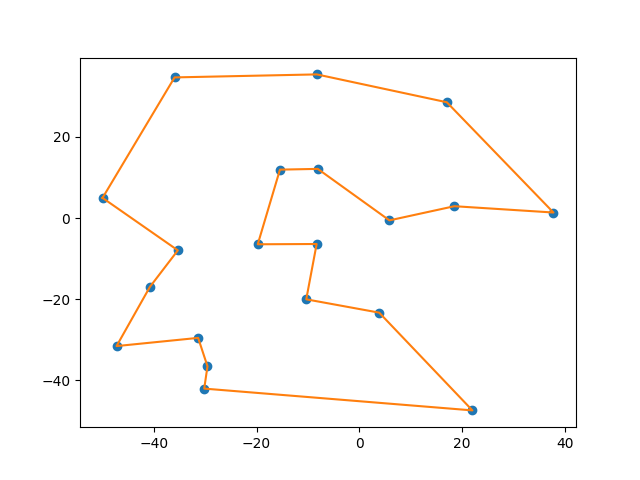
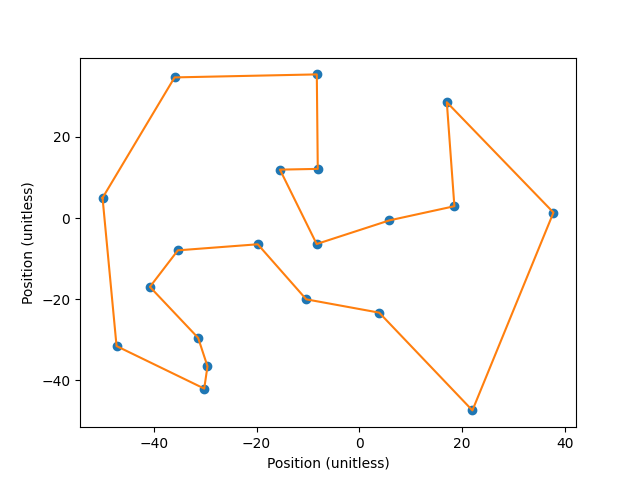
added multi main 1 and 2

diff --git a/multi_main1.py b/multi_main1.py
@@ -9,10 +9,7 @@ import numpy as np
 
 from matplotlib import pyplot as plt
 
-TIME_LIMIT  = 1
-waypoints = []
-num_vehicles = 2
-samples = 20
+
 
 def print_solution(data, manager, routing, solution):
     """Prints solution on console."""
@@ -64,12 +61,12 @@ def plot_results(routes, waypoints, home, num_vehicles):
         x.append(home.x)
         y.append(home.y)
         plt.plot(x, y)
-
     plt.plot(0, 0, 'bx', markersize=10)
+    plt.xlabel('Position (unitless)')
+    plt.ylabel('Position (unitless)')
+    plt.savefig("multi-agent1.png")
 
-
-
-    plt.show()
+    # plt.show()
 
 
 
@@ -79,6 +76,10 @@ def main():
     # Instantiate the data problem.
     # data = create_data_model()
 
+    TIME_LIMIT  = 1
+    waypoints = []
+    num_vehicles = 2
+    samples = 20
     np.random.seed(1)
     x = np.random.rand(samples, 1) * 100 - 50
     np.random.seed(2)
@@ -89,22 +90,22 @@ def main():
 
     for xx, yy in zip(x, y):
         waypoints.append(Waypoint(xx, yy, 50.0))
-    # home = Waypoint(0, 0, 50.0)
+    home = Waypoint(0, 0, 50.0)
 
-    # waypoints.append(home)
+    waypoints.append(home)
 
     waypoints.sort()
 
-    # home_index = waypoints.index(home)
-    # ends = [home_index for i in range(num_vehicles)]
+    home_index = waypoints.index(home)
+    ends = [home_index for i in range(num_vehicles)]
 
     starts = []
     # while len(starts) < num_vehicles:
     #     candidate = np.random.choice()
 
-    # print('ends', ends)
+    print('ends', ends)
 
-    data = {'depot': 0, 'num_vehicles': num_vehicles}
+    data = {'starts': [0, 8], 'ends': ends, 'num_vehicles': num_vehicles}
     num_points = len(waypoints)
     distance_matrix = [[0 for i in range(num_points)] for j in range(num_points)]
     for i in range(num_points):
@@ -123,8 +124,8 @@ def main():
 
     # Create the routing index manager.
     manager = pywrapcp.RoutingIndexManager(len(data['distance_matrix']),
-                                           data['num_vehicles'], data['depot'])
-
+                                           data['num_vehicles'], data['starts'],
+                                           data['ends'])
 
     # Create Routing Model.
     routing = pywrapcp.RoutingModel(manager)
@@ -166,7 +167,7 @@ def main():
     # Print solution on console.
     if solution:
         routes = print_solution(data, manager, routing, solution)
-        # plot_results(routes, waypoints, home, num_vehicles)
+        plot_results(routes, waypoints, home, num_vehicles)
 
 
 if __name__ == '__main__':

diff --git a/RL_Traveling_Salesman_main.py b/RL_Traveling_Salesman_main.py
@@ -41,12 +41,25 @@ device
 # In[4]:
 
 
-def get_graph_mat(n=10, size=1):
+def get_graph_mat(n=10, size=1, test=False):
     """ Throws n nodes uniformly at random on a square, and build a (fully connected) graph.
         Returns the (N, 2) coordinates matrix, and the (N, N) matrix containing pairwise euclidean distances.
     """
     coords = size * np.random.uniform(size=(n,2))
     dist_mat = distance_matrix(coords, coords)
+
+    if test:
+        samples = n
+        np.random.seed(1)
+        x = np.random.rand(samples, 1) * 100 - 50
+        np.random.seed(2)
+        y = np.random.rand(samples, 1) * 100 - 50
+        coords = np.zeros((n, 2))
+        coords[:, 0] = x[:, 0]
+        coords[:, 1] = y[:, 0]
+        dist_mat = distance_matrix(coords, coords)
+
+
     return coords, dist_mat
 
 def plot_graph(coords, mat):
@@ -329,15 +342,15 @@ def get_next_neighbor_random(state):
 SEED = 1  # A seed for the random number generator
 
 # Graph
-NR_NODES = 10  # Number of nodes N
+NR_NODES = 20  # Number of nodes N
 EMBEDDING_DIMENSIONS = 5  # Embedding dimension D
 EMBEDDING_ITERATIONS_T = 1  # Number of embedding iterations T
 
 # Learning
-NR_EPISODES = 4001
+NR_EPISODES = 3601
 MEMORY_CAPACITY = 10000
-N_STEP_QL = 2  # Number of steps (n) in n-step Q-learning to wait before computing target reward estimate
-BATCH_SIZE = 16
+N_STEP_QL = 4  # Number of steps (n) in n-step Q-learning to wait before computing target reward estimate
+BATCH_SIZE = 64
 
 GAMMA = 0.9
 INIT_LR = 5e-3
@@ -577,14 +590,14 @@ def plot_solution(coords, mat, solution):
     i, next_i = solution[-1], solution[0]
     plt.plot([coords[i, 0], coords[next_i, 0]], [coords[i, 1], coords[next_i, 1]], 'k', lw=2, alpha=0.8)
     plt.plot(coords[solution[0], 0], coords[solution[0], 1], 'x', markersize=10)
-
+    plt.show()
 
 
 """ Generate example solutions
 """
 NR_NODES = 20
-for sample in range(10):
-    coords, W_np = get_graph_mat(n=NR_NODES)
+for sample in range(1):
+    coords, W_np = get_graph_mat(n=NR_NODES,size=1, test=True)
     W = torch.tensor(W_np, dtype=torch.float32, requires_grad=False, device=device)
 
     solution = [random.randint(0, NR_NODES-1)]
@@ -609,7 +622,7 @@ for sample in range(10):
     random_solution = list(range(NR_NODES))
     plot_solution(coords, W, random_solution)
     plt.title('random / len = {}'.format(total_distance(random_solution, W)))
-
+    plt.show()
 
 # In[ ]:
 

diff --git a/single_main_plot.py b/single_main_plot.py
@@ -59,6 +59,8 @@ def plot_results(routes, waypoints, home, num_vehicles):
         # x.append(home.x)
         # y.append(home.y)
         plt.plot(x, y)
+        plt.xlabel('Position (unitless)')
+        plt.ylabel('Position (unitless)')
         # last_x = current_x
         # last_y = current_y
         # current_x = home.x
@@ -72,7 +74,7 @@ def plot_results(routes, waypoints, home, num_vehicles):
 
     distance += np.sqrt((current_x - first_x) ** 2 + (current_y - first_y) ** 2)
     print("manually caluclated distance", distance)
-    plt.savefig("result1.png")
+    plt.savefig("result3.png")
     plt.show()
 
 
@@ -122,7 +124,9 @@ def main():
 
     routes = [[0, 3, 12, 16, 19, 17, 15, 13, 9, 8, 11, 10, 14, 18, 6, 7, 5, 1, 2, 4, 0]] # held karp
     # routes = [[0, 3, 12, 13, 9, 11, 15, 17, 16, 19, 18, 14, 10, 8, 4, 2, 5, 7, 6, 1, 0]] # christofides
+    # routes = [[0, 3, 12, 13, 9, 11, 15, 17, 16, 19, 18, 14, 10, 8, 4, 2, 5, 7, 6, 1, 0]] # christofides
     # routes = [[0, 4, 2, 1, 5, 7, 6, 18, 14, 10, 11, 8, 9, 13, 15, 17, 19, 16, 12, 3, 0]] # prob
+    routes = [[0, 3, 12, 9, 13, 11, 15, 17, 16, 19, 18, 14, 10, 8, 4, 5, 7, 6, 1,  2,0]]  # rl
 
         # routes, max_route_distance = print_solution(data, manager, routing, solution)
     home_index = ends[0]

diff --git a/utils.py b/utils.py
@@ -83,6 +83,8 @@ def plot_results(routes, waypoints, home, num_vehicles, filename):
         # x.append(home_x)
         # y.append(home_y)
         plt.plot(x, y)
+        plt.xlabel('Position (unitless)')
+        plt.ylabel('Position (unitless)')
     # plt.plot(home_x, home_y, 'bx', markersize=10)
     # plt.show()
     plt.savefig(filename)
@@ -96,7 +98,10 @@ def plot_complete_graph(x, y):
 
         for xx1, yy1 in zip(x, y):
             plt.plot([xx0, xx1], [yy0, yy1], 'g:')
-    plt.show()
+    plt.xlabel('Position (unitless)')
+    plt.ylabel('Position (unitless)')
+    # plt.show()
+    plt.savefig('complete_graph.png')
     plt.close()
 
 def build_distance_matrix(samples, home):

diff --git a/multi_main2.py b/multi_main2.py
@@ -62,10 +62,11 @@ def plot_results(routes, waypoints, home, num_vehicles):
         y.append(home.y)
         plt.plot(x, y)
     plt.plot(0, 0, 'bx', markersize=10)
+    plt.xlabel('Position (unitless)')
+    plt.ylabel('Position (unitless)')
+    plt.savefig("multi-agent2.png")
 
-
-
-    plt.show()
+    # plt.show()
 
 
 
